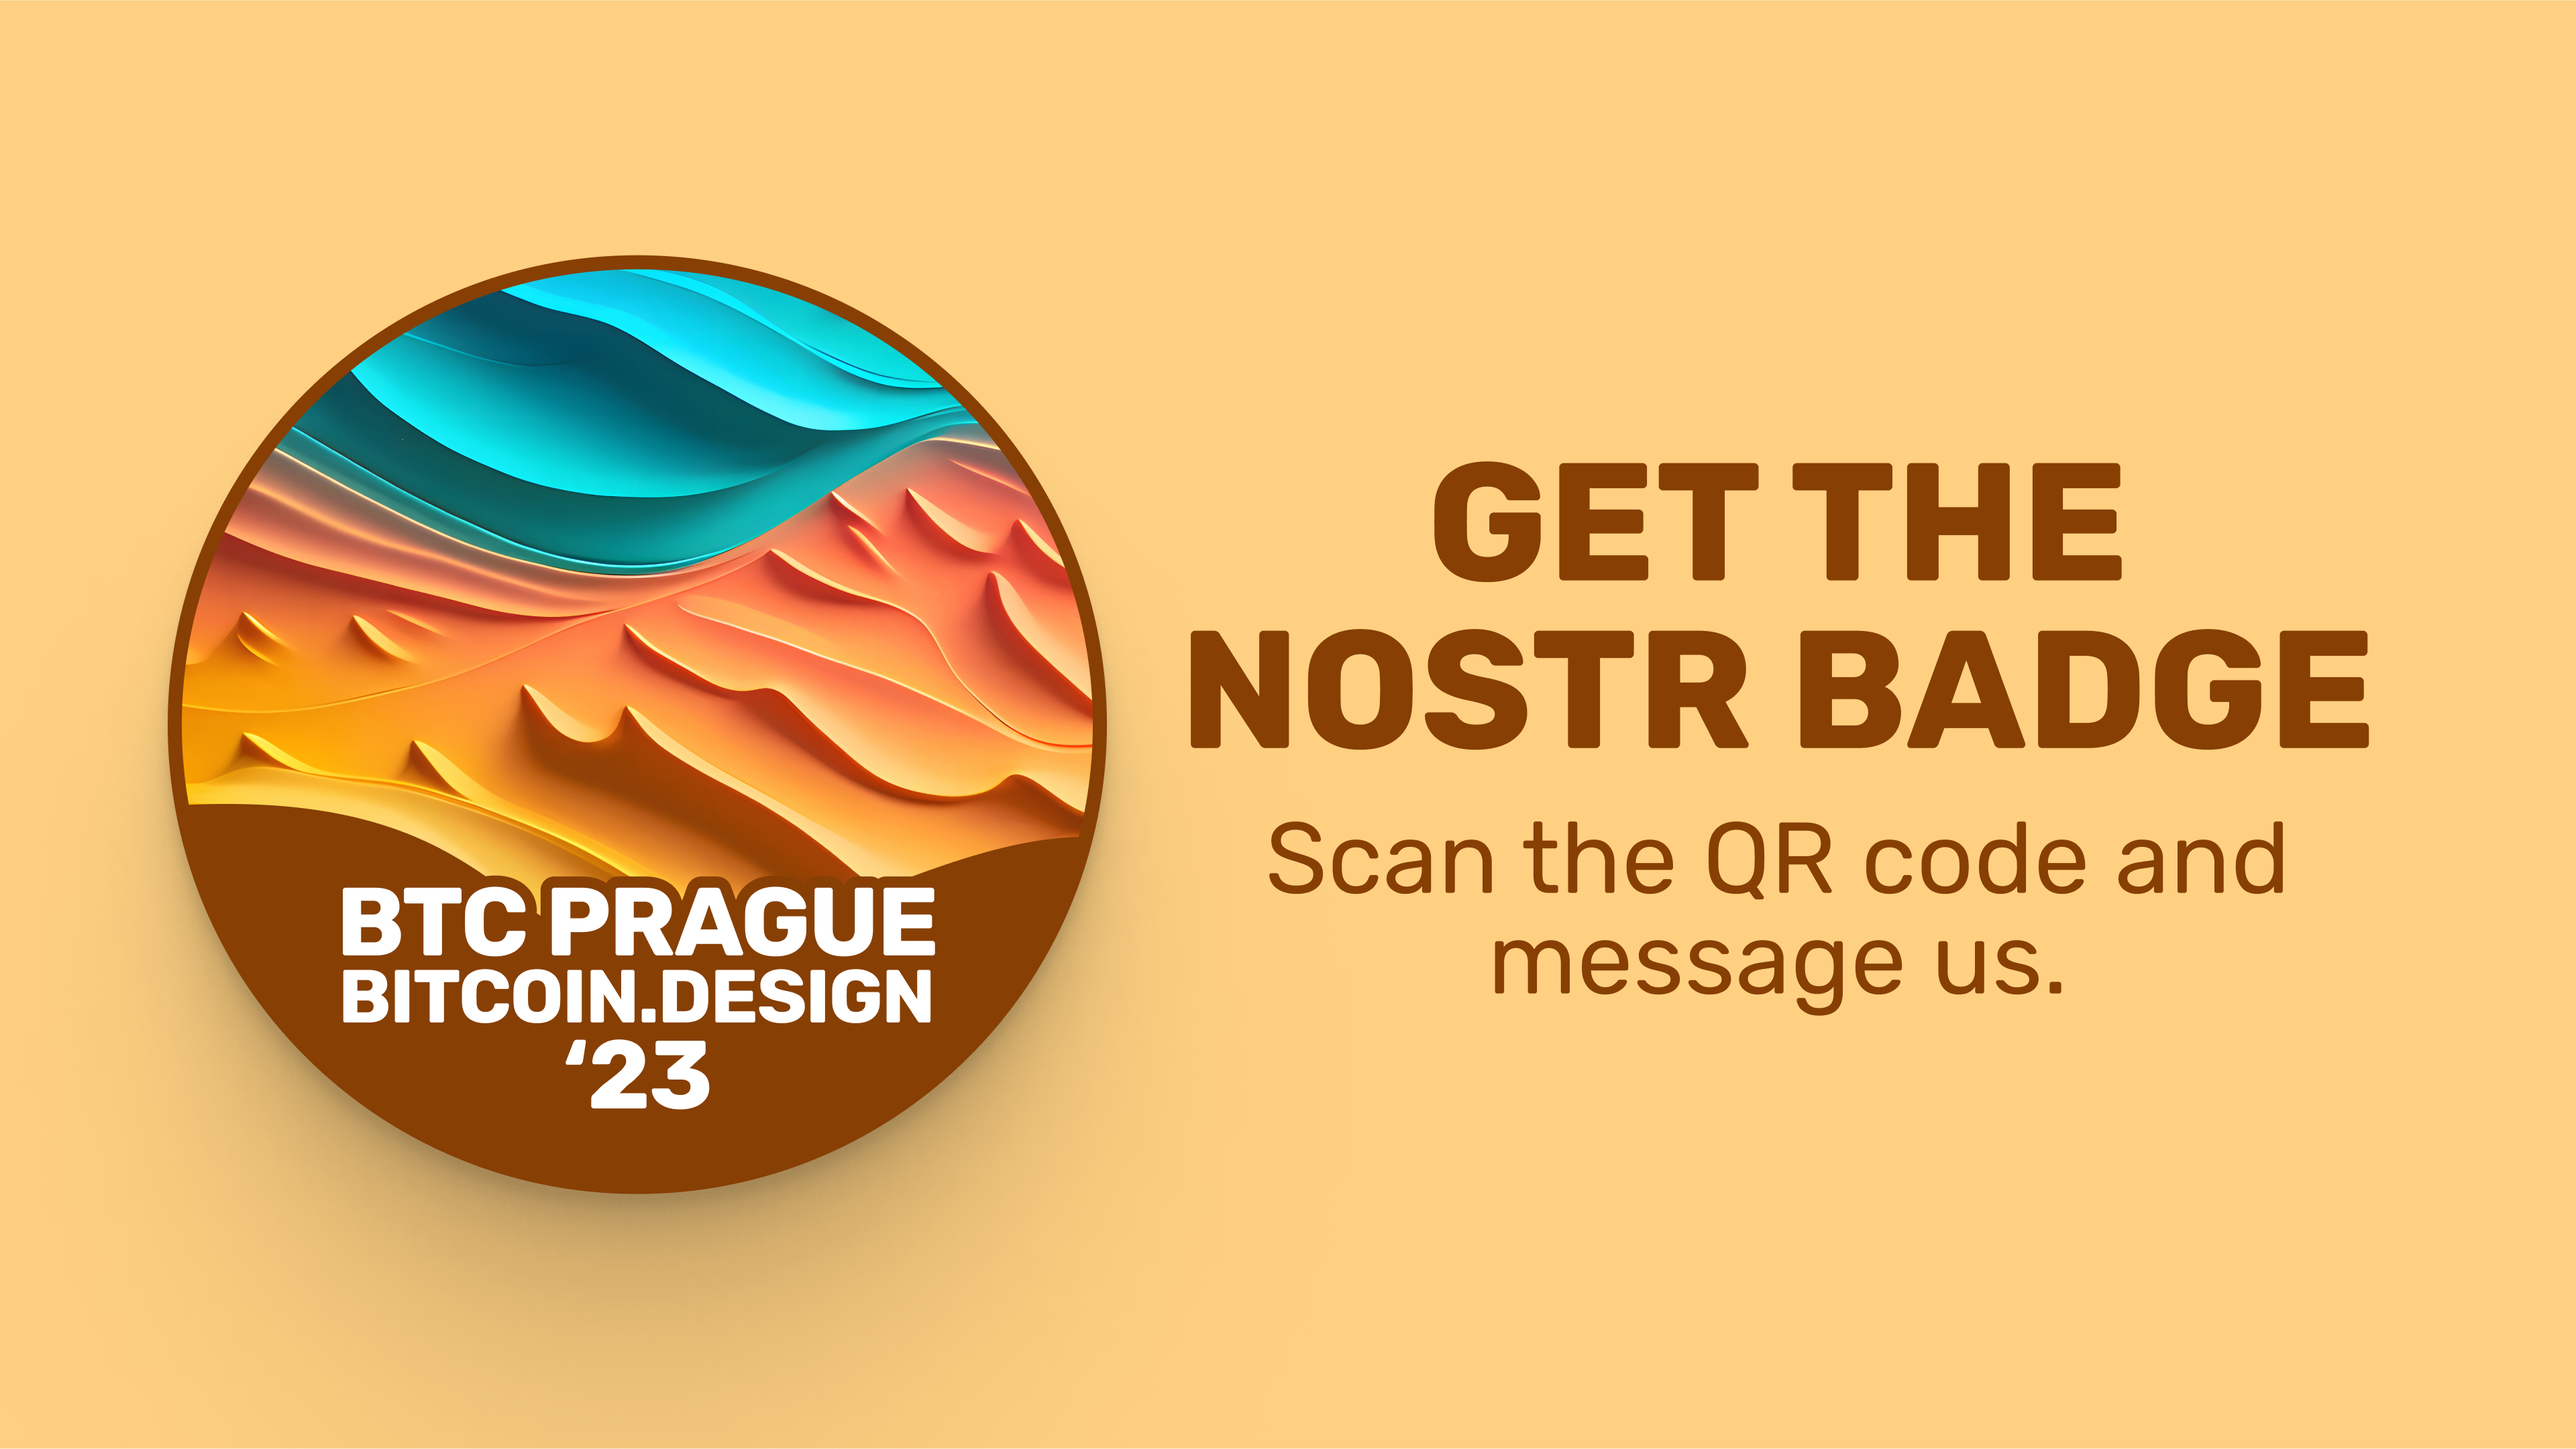
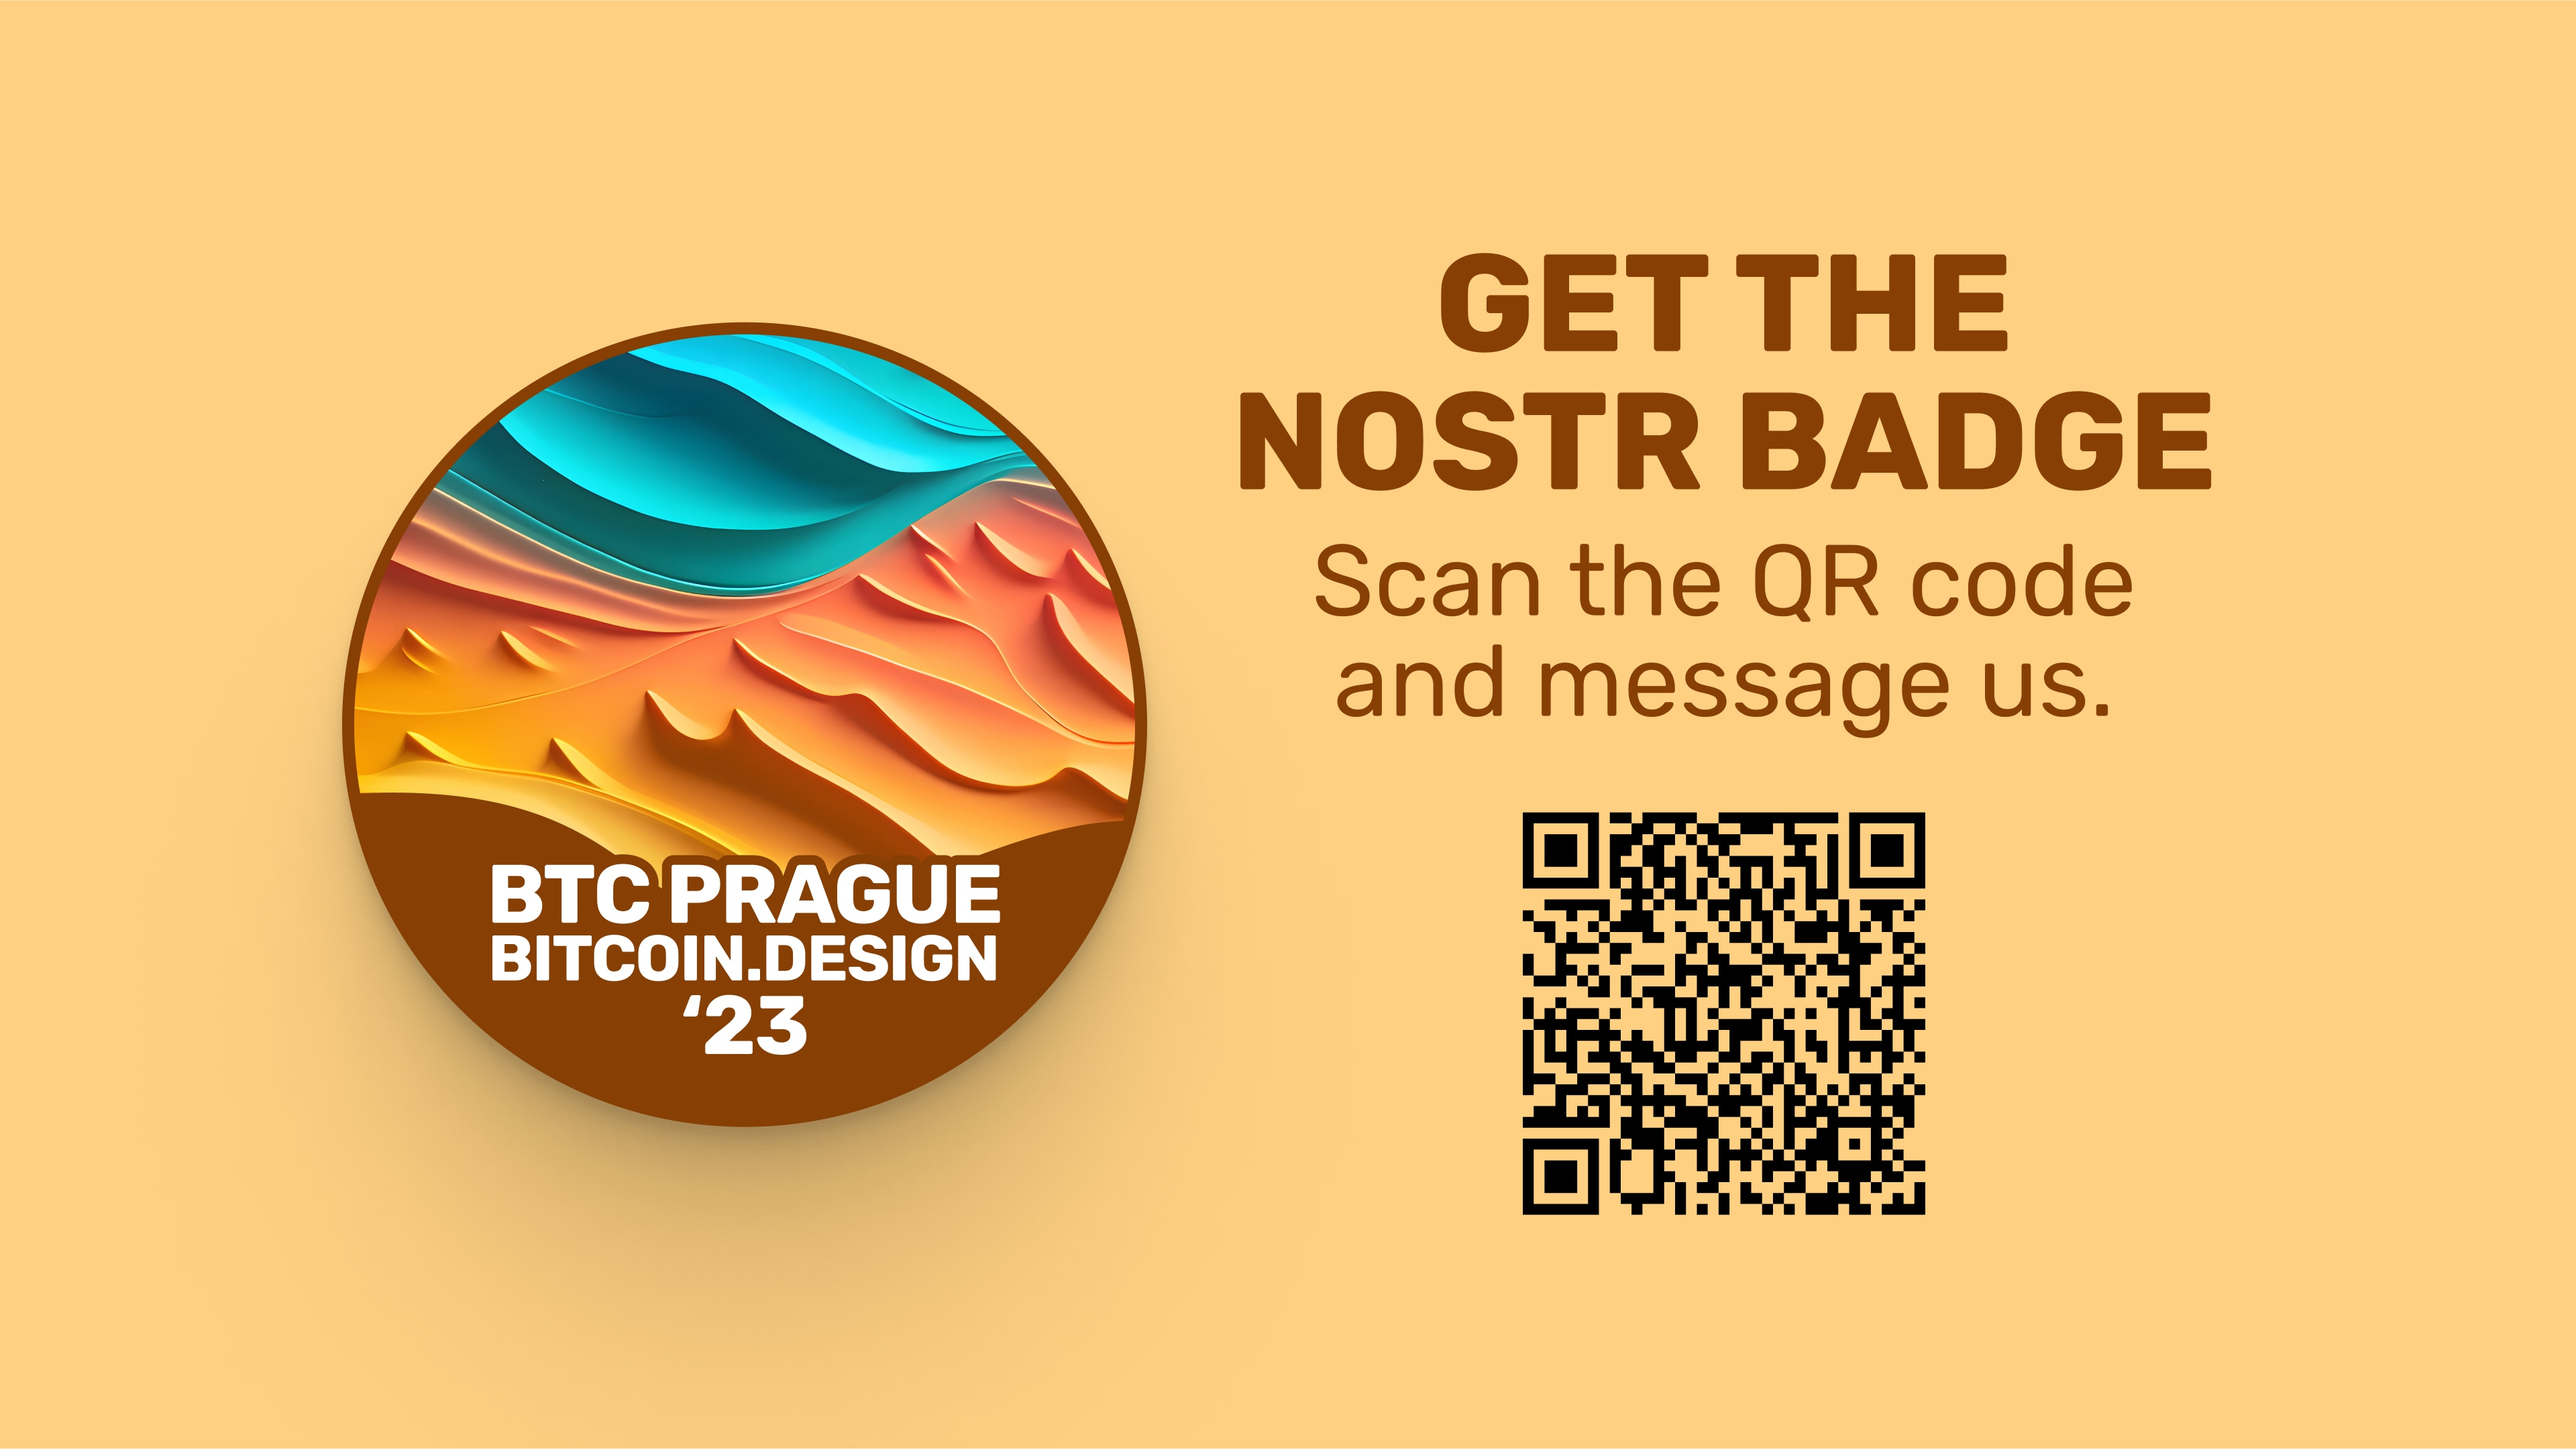
Updated with first draft of content

Changed region(s): [[0.0625, 0.155, 0.9375, 0.8681], [0.5, 0.5581, 0.9062, 0.8371]]

diff --git a/index.html b/index.html
@@ -27,22 +27,32 @@
 	<body>
 		<div class="reveal">
 			<div class="slides">
-				<!-- Community -->
 				<section data-background-image="images/bitcoin-design-community.jpg"></section>
-
-				<!-- Nostr badge -->
+				<section data-background-image="images/website.jpg"></section>
 				<section data-background-image="images/nostr-badge.jpg"></section>
-
-				<!-- Projects -->
-				<section
-					class="-center -bottom"
-					data-background-image="images/saving-satoshi.jpg"
-				>
-					<div class="copy">
-						<h1>Saving Satoshi</h1>
-						<p>Learn bitcoin coding at savingsatoshi.com</p>
-					</div>
-				</section>
+				<section data-background-image="images/accessibility-day.jpg"></section>
+				<section data-background-image="images/designathon.jpg"></section>
+				<section data-background-image="images/design-reviews.jpg"></section>
+				<section data-background-image="images/community-resources.jpg"></section>
+				<section data-background-image="images/design-guide.jpg"></section>
+				<section data-background-image="images/bitcoin-ui-kit.jpg"></section>
+				<section data-background-image="images/ux-research-kit.jpg"></section>
+				<section data-background-image="images/bitcoin-icons.jpg"></section>
+				<section data-background-image="images/collaborations.jpg"></section>
+				<section data-background-image="images/saving-satoshi.jpg"></section>
+				<section data-background-image="images/wallet-scrutiny.jpg"></section>
+				<section data-background-image="images/bitcoin-core-app.jpg"></section>
+				<section data-background-image="images/bitcoin-smiles.jpg"></section>
+				<section data-background-image="images/alby.jpg"></section>
+				<section data-background-image="images/summer-of-bitcoin.jpg"></section>
+				<section data-background-image="images/stratum-v2.jpg"></section>
+				<section data-background-image="images/zeus.jpg"></section>
+				<section data-background-image="images/fedimint.jpg"></section>
+				<section data-background-image="images/jam.jpg"></section>
+				<section data-background-image="images/bolt-fun.jpg"></section>
+				<section data-background-image="images/open-design.jpg"></section>
+				<section data-background-image="images/inclusion.jpg"></section>
+				<section data-background-image="images/tech-adoption.jpg"></section>
 			</div>
 		</div>
 
